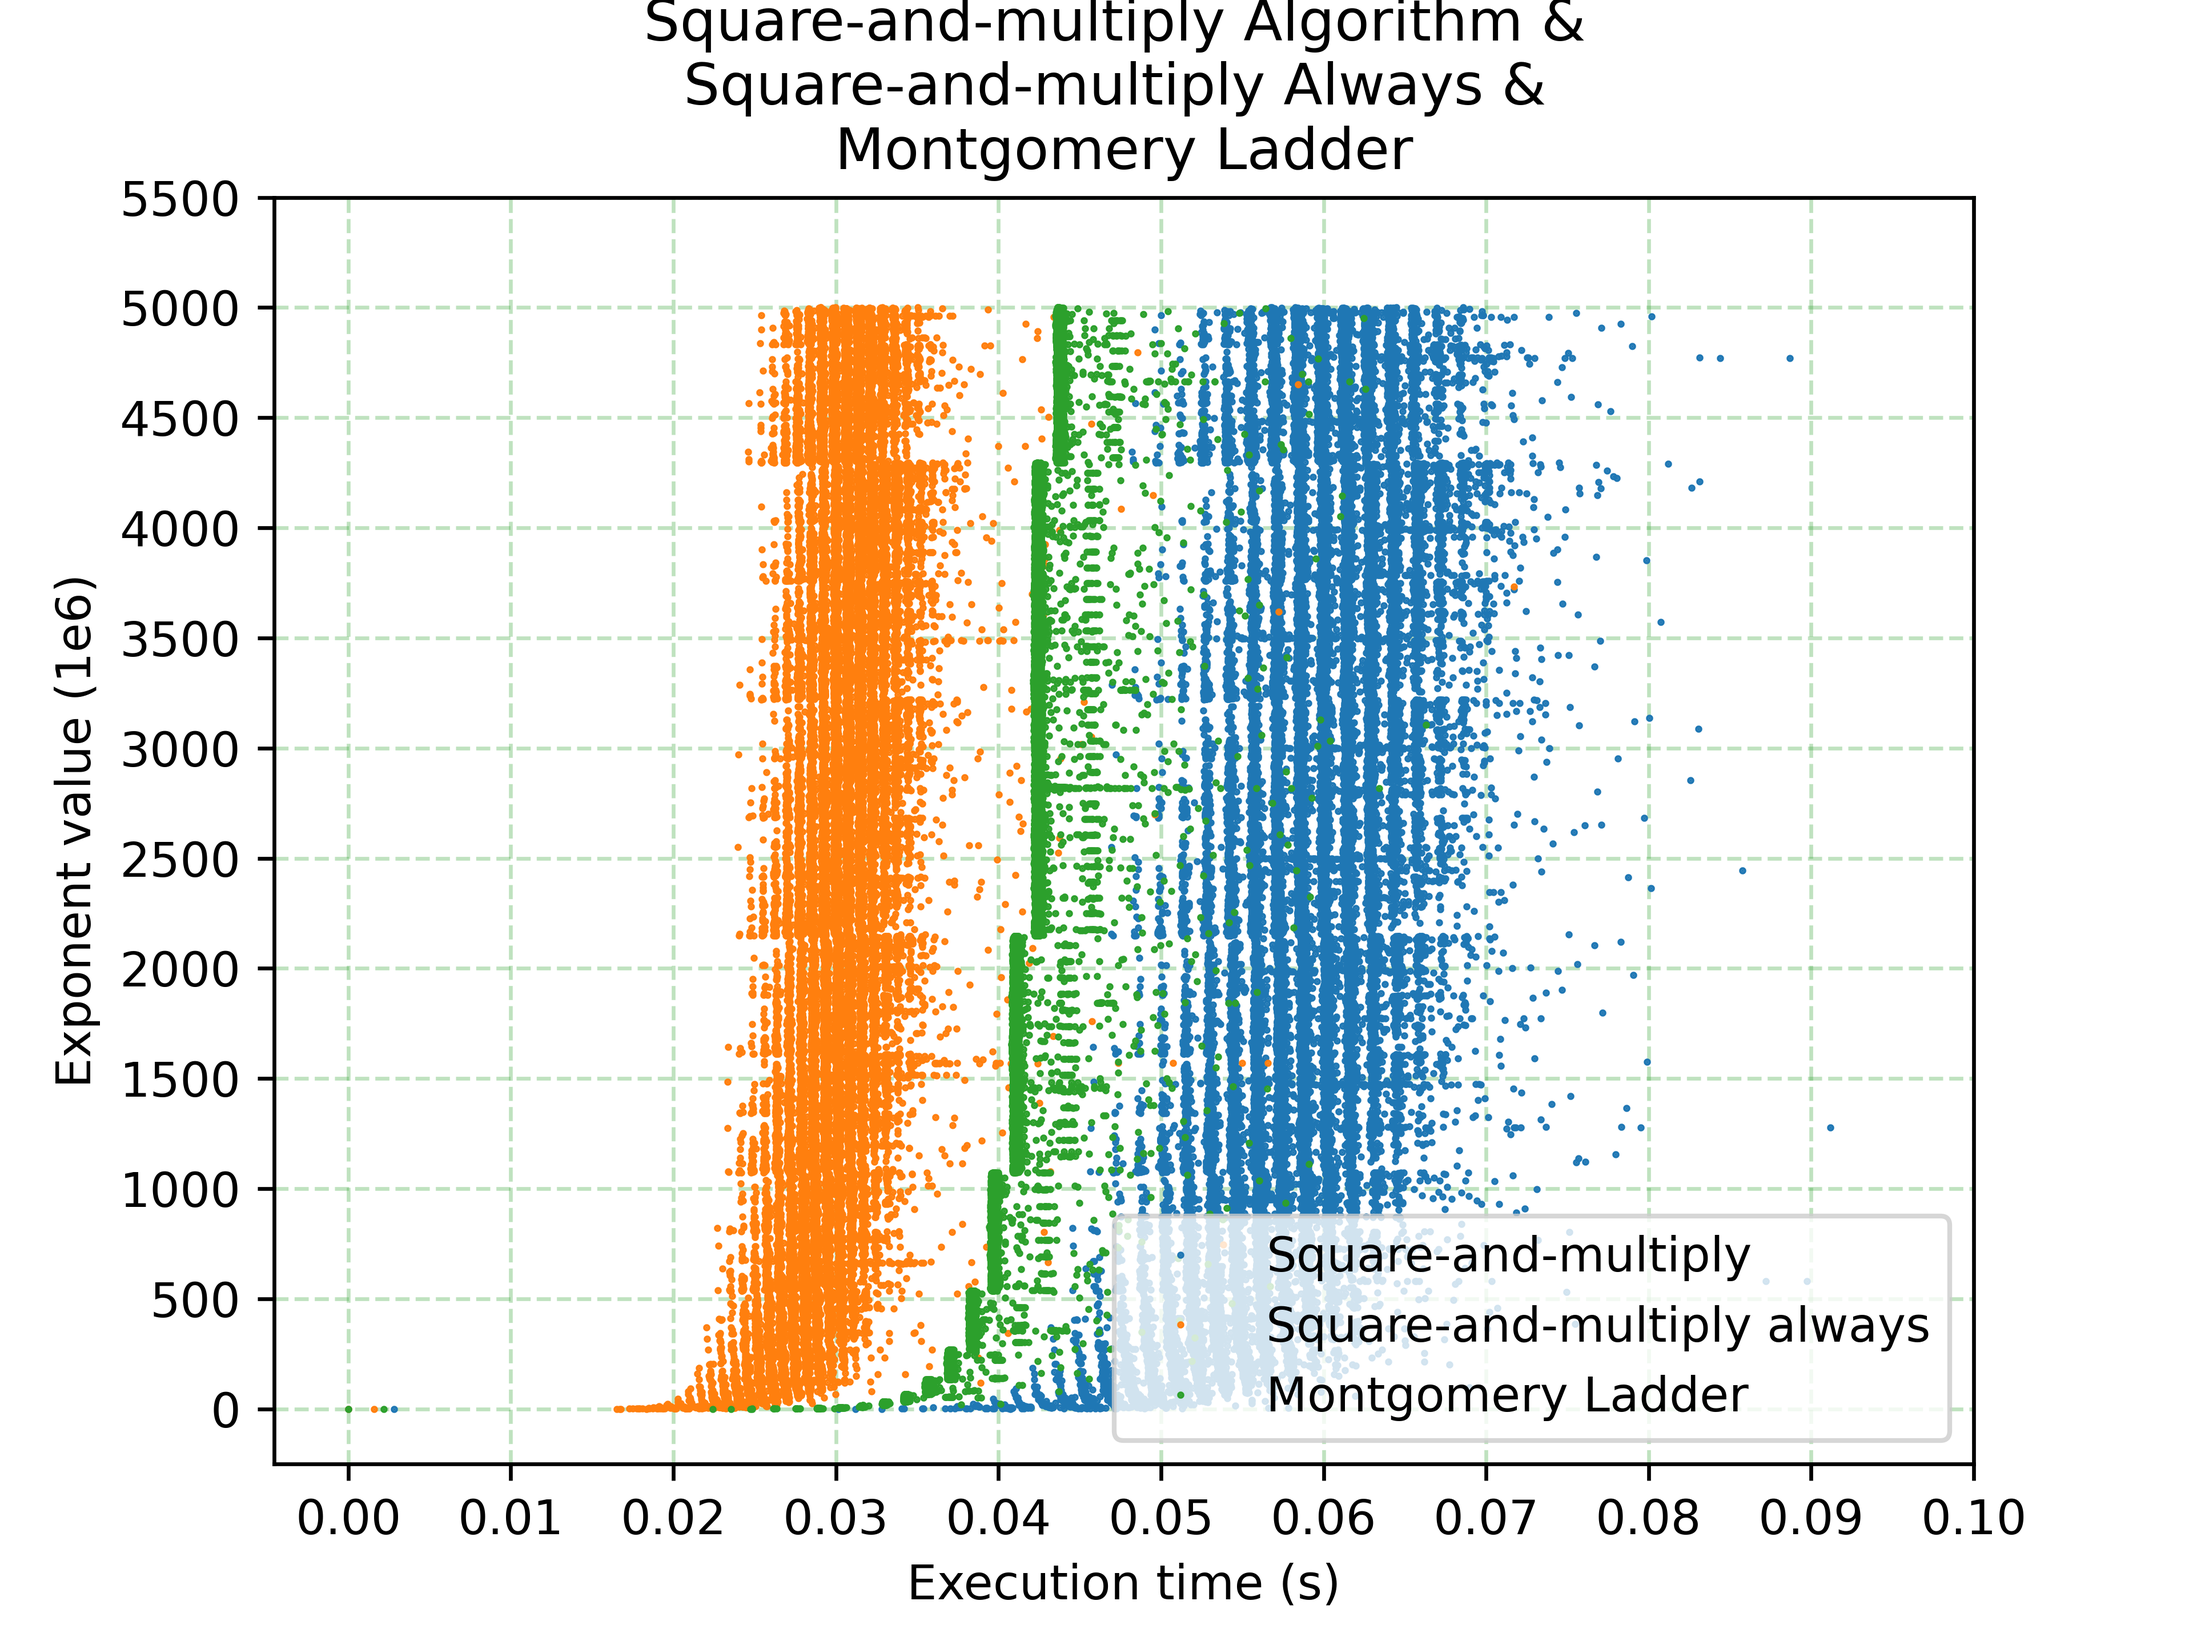
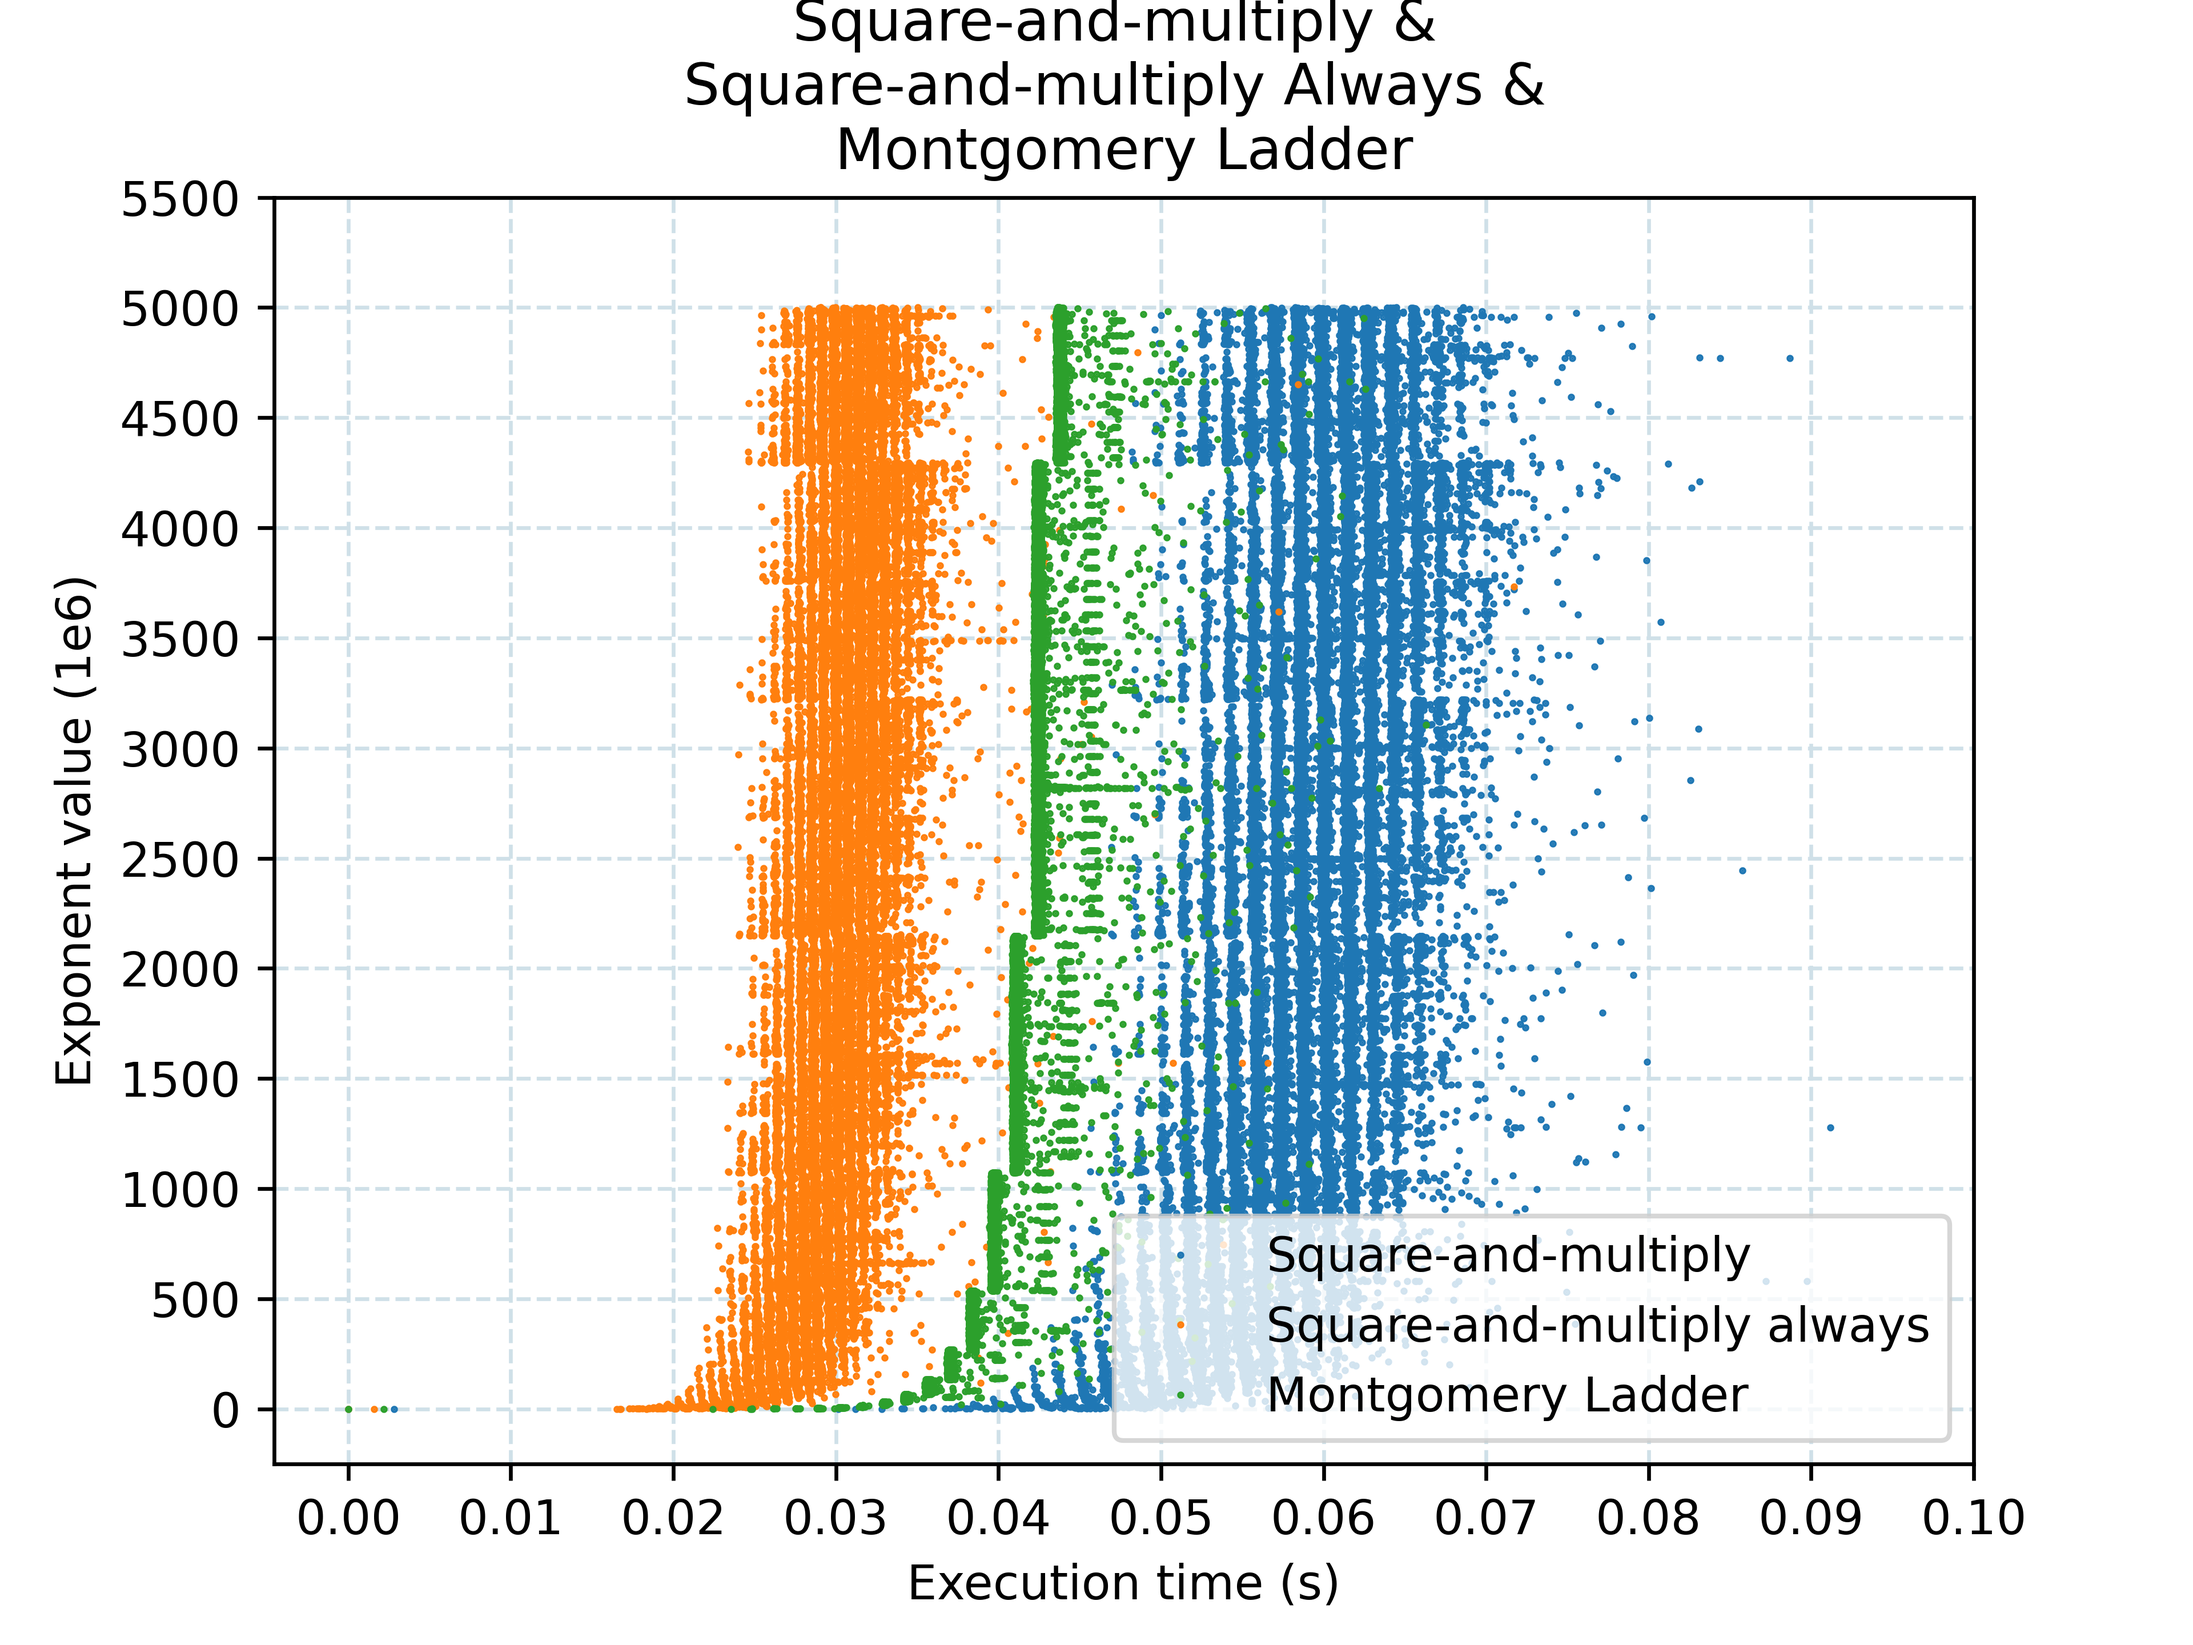
Graphs automatized finished, trully

Changed region(s): [[0.2812, 0.0, 0.7188, 0.0312]]

diff --git a/Countermeasures/src/graph/createGraph.py b/Countermeasures/src/graph/createGraph.py
@@ -24,19 +24,39 @@ def create_graph():
             break
         else:
             name += IMG_FOLDER_PATH + IMG[idx]
-            name_plt += NAME[idx]
+            name_plt += NAME_AUX[idx]
             createPlots(EXE_COL, EXP_COL, data[idx], LABEL[idx], COLOUR[idx],
-                        X_AXIS, Y_AXIS, POINT_SIZE, NAME[idx], AXIS, GRID_LINESTYLE)
+                        X_AXIS, Y_AXIS, POINT_SIZE, NAME[idx], AXIS, GRID_LINESTYLE, grid_colour=GRID_COLOUR)
 
         for i in range(idx + 1, len(data)):  # Each graph prints the comparison with the following ones
             createPlots(EXE_COL, EXP_COL, data[i], LABEL[i], COLOUR[i],
-                        X_AXIS, Y_AXIS, POINT_SIZE, NAME[i], AXIS, GRID_LINESTYLE)
+                        X_AXIS, Y_AXIS, POINT_SIZE, NAME[i], AXIS, GRID_LINESTYLE, grid_colour=GRID_COLOUR)
 
             name += " & " + IMG[i]
             name_plt += " & \n" + NAME_AUX[i]
         plt.title(name_plt)
         plt.savefig(name + ".png", dpi=600)
         plt.close()
+
+    for idx, arr in enumerate(data):  # Two graphs - Not last
+        if idx == len(data) - 2:  # The two last ones are handled in the loop before
+            break
+
+        for i in range(idx + 1, len(data)):  # Each graph prints the comparison with one of the following ones
+            name = IMG_FOLDER_PATH + IMG[idx]  # Base graph
+            name_plt = NAME_AUX[idx]
+            createPlots(EXE_COL, EXP_COL, data[idx], LABEL[idx], COLOUR[idx],
+                        X_AXIS, Y_AXIS, POINT_SIZE, NAME[idx], AXIS, GRID_LINESTYLE, grid_colour=GRID_COLOUR)
+
+            name += " & " + IMG[i]
+            name_plt += " & \n" + NAME_AUX[i]
+
+            createPlots(EXE_COL, EXP_COL, data[i], LABEL[i], COLOUR[i],  # Graph compared to
+                        X_AXIS, Y_AXIS, POINT_SIZE, NAME[i], AXIS, GRID_LINESTYLE, grid_colour=GRID_COLOUR)
+
+            plt.title(name_plt)
+            plt.savefig(name + ".png", dpi=600)
+            plt.close()
 
 
 def readfiles(files):
@@ -57,7 +77,7 @@ def readfiles(files):
 
 
 def createPlots(c1, c2, data, label, colour,
-                x_axis, y_axis, point_size, name, axis, grid_linestyle):
+                x_axis, y_axis, point_size, name, axis, grid_linestyle, grid_colour=None):
     x = data[c1]
     y = data[c2]
 
@@ -75,5 +95,7 @@ def createPlots(c1, c2, data, label, colour,
 
     lgnd = plt.legend(loc="lower right", numpoints=1, fontsize=10)
     # lgnd.legendHandles[0]._legmarker.set_markersize(4)
-
-    plt.grid(True, color=colour, alpha=0.3, linestyle=grid_linestyle)
+    if grid_colour is None:
+        plt.grid(True, color=colour, alpha=0.3, linestyle=grid_linestyle)
+    else:
+        plt.grid(True, color=grid_colour, linestyle=grid_linestyle)
